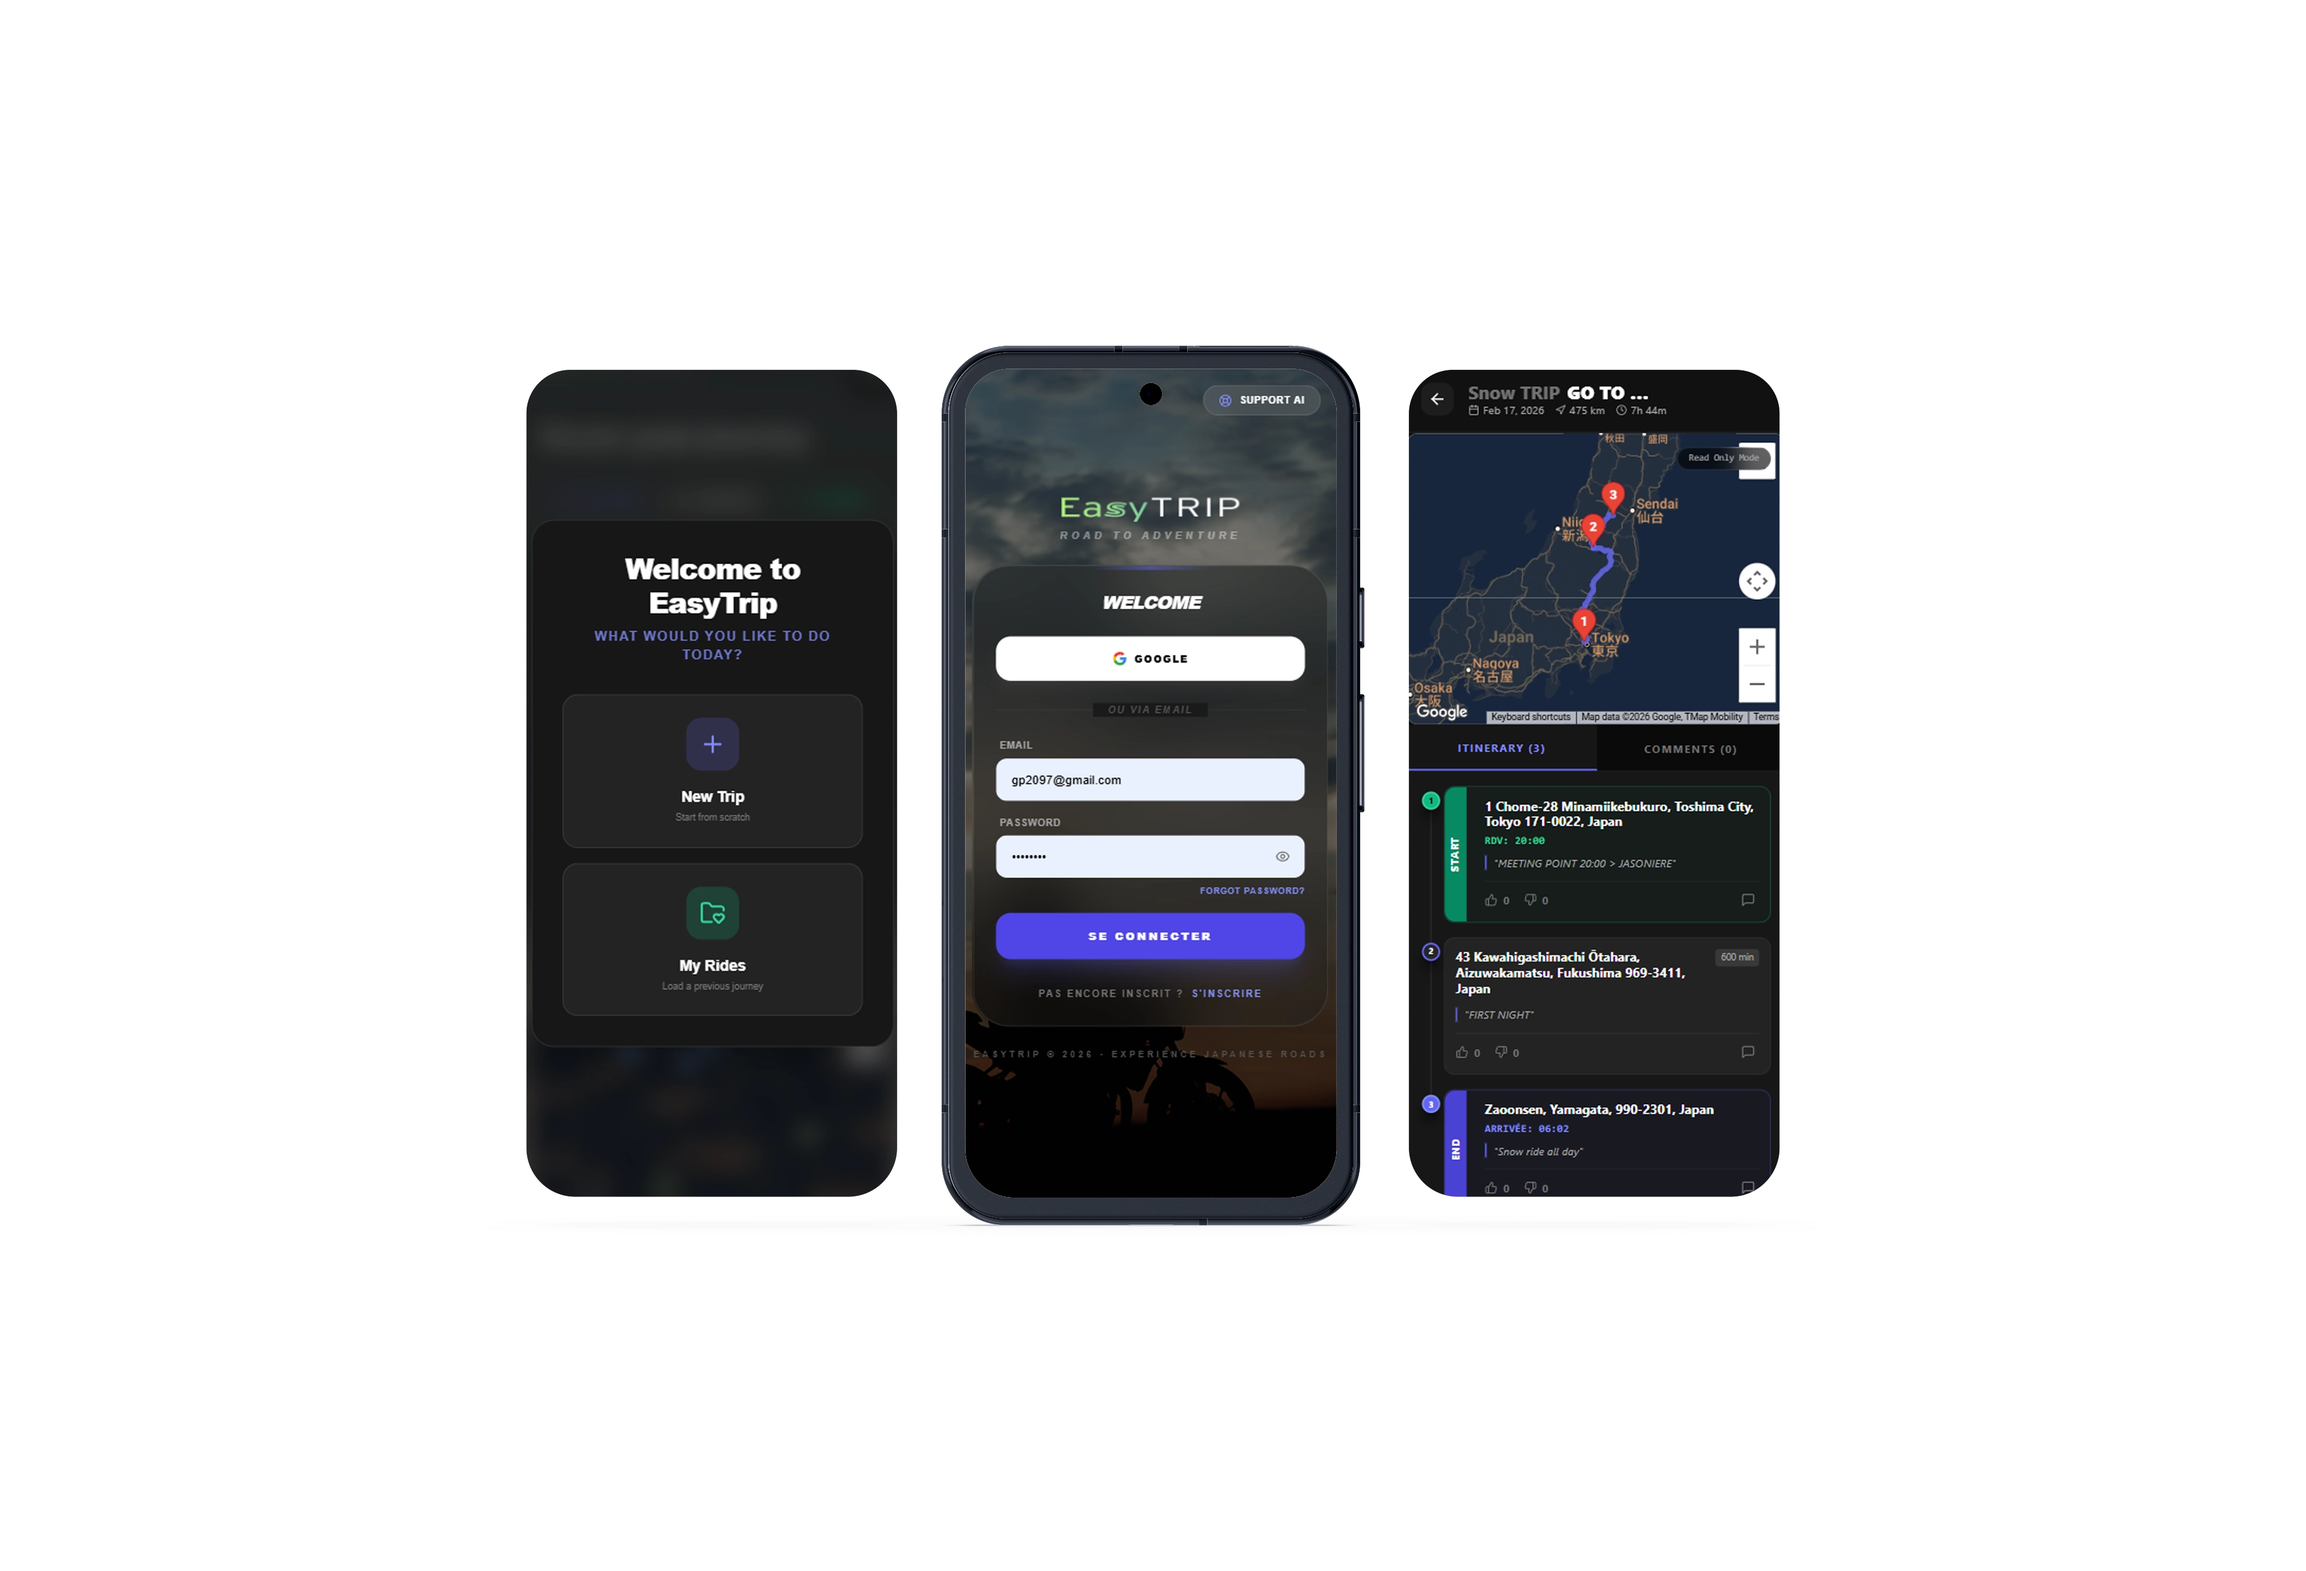
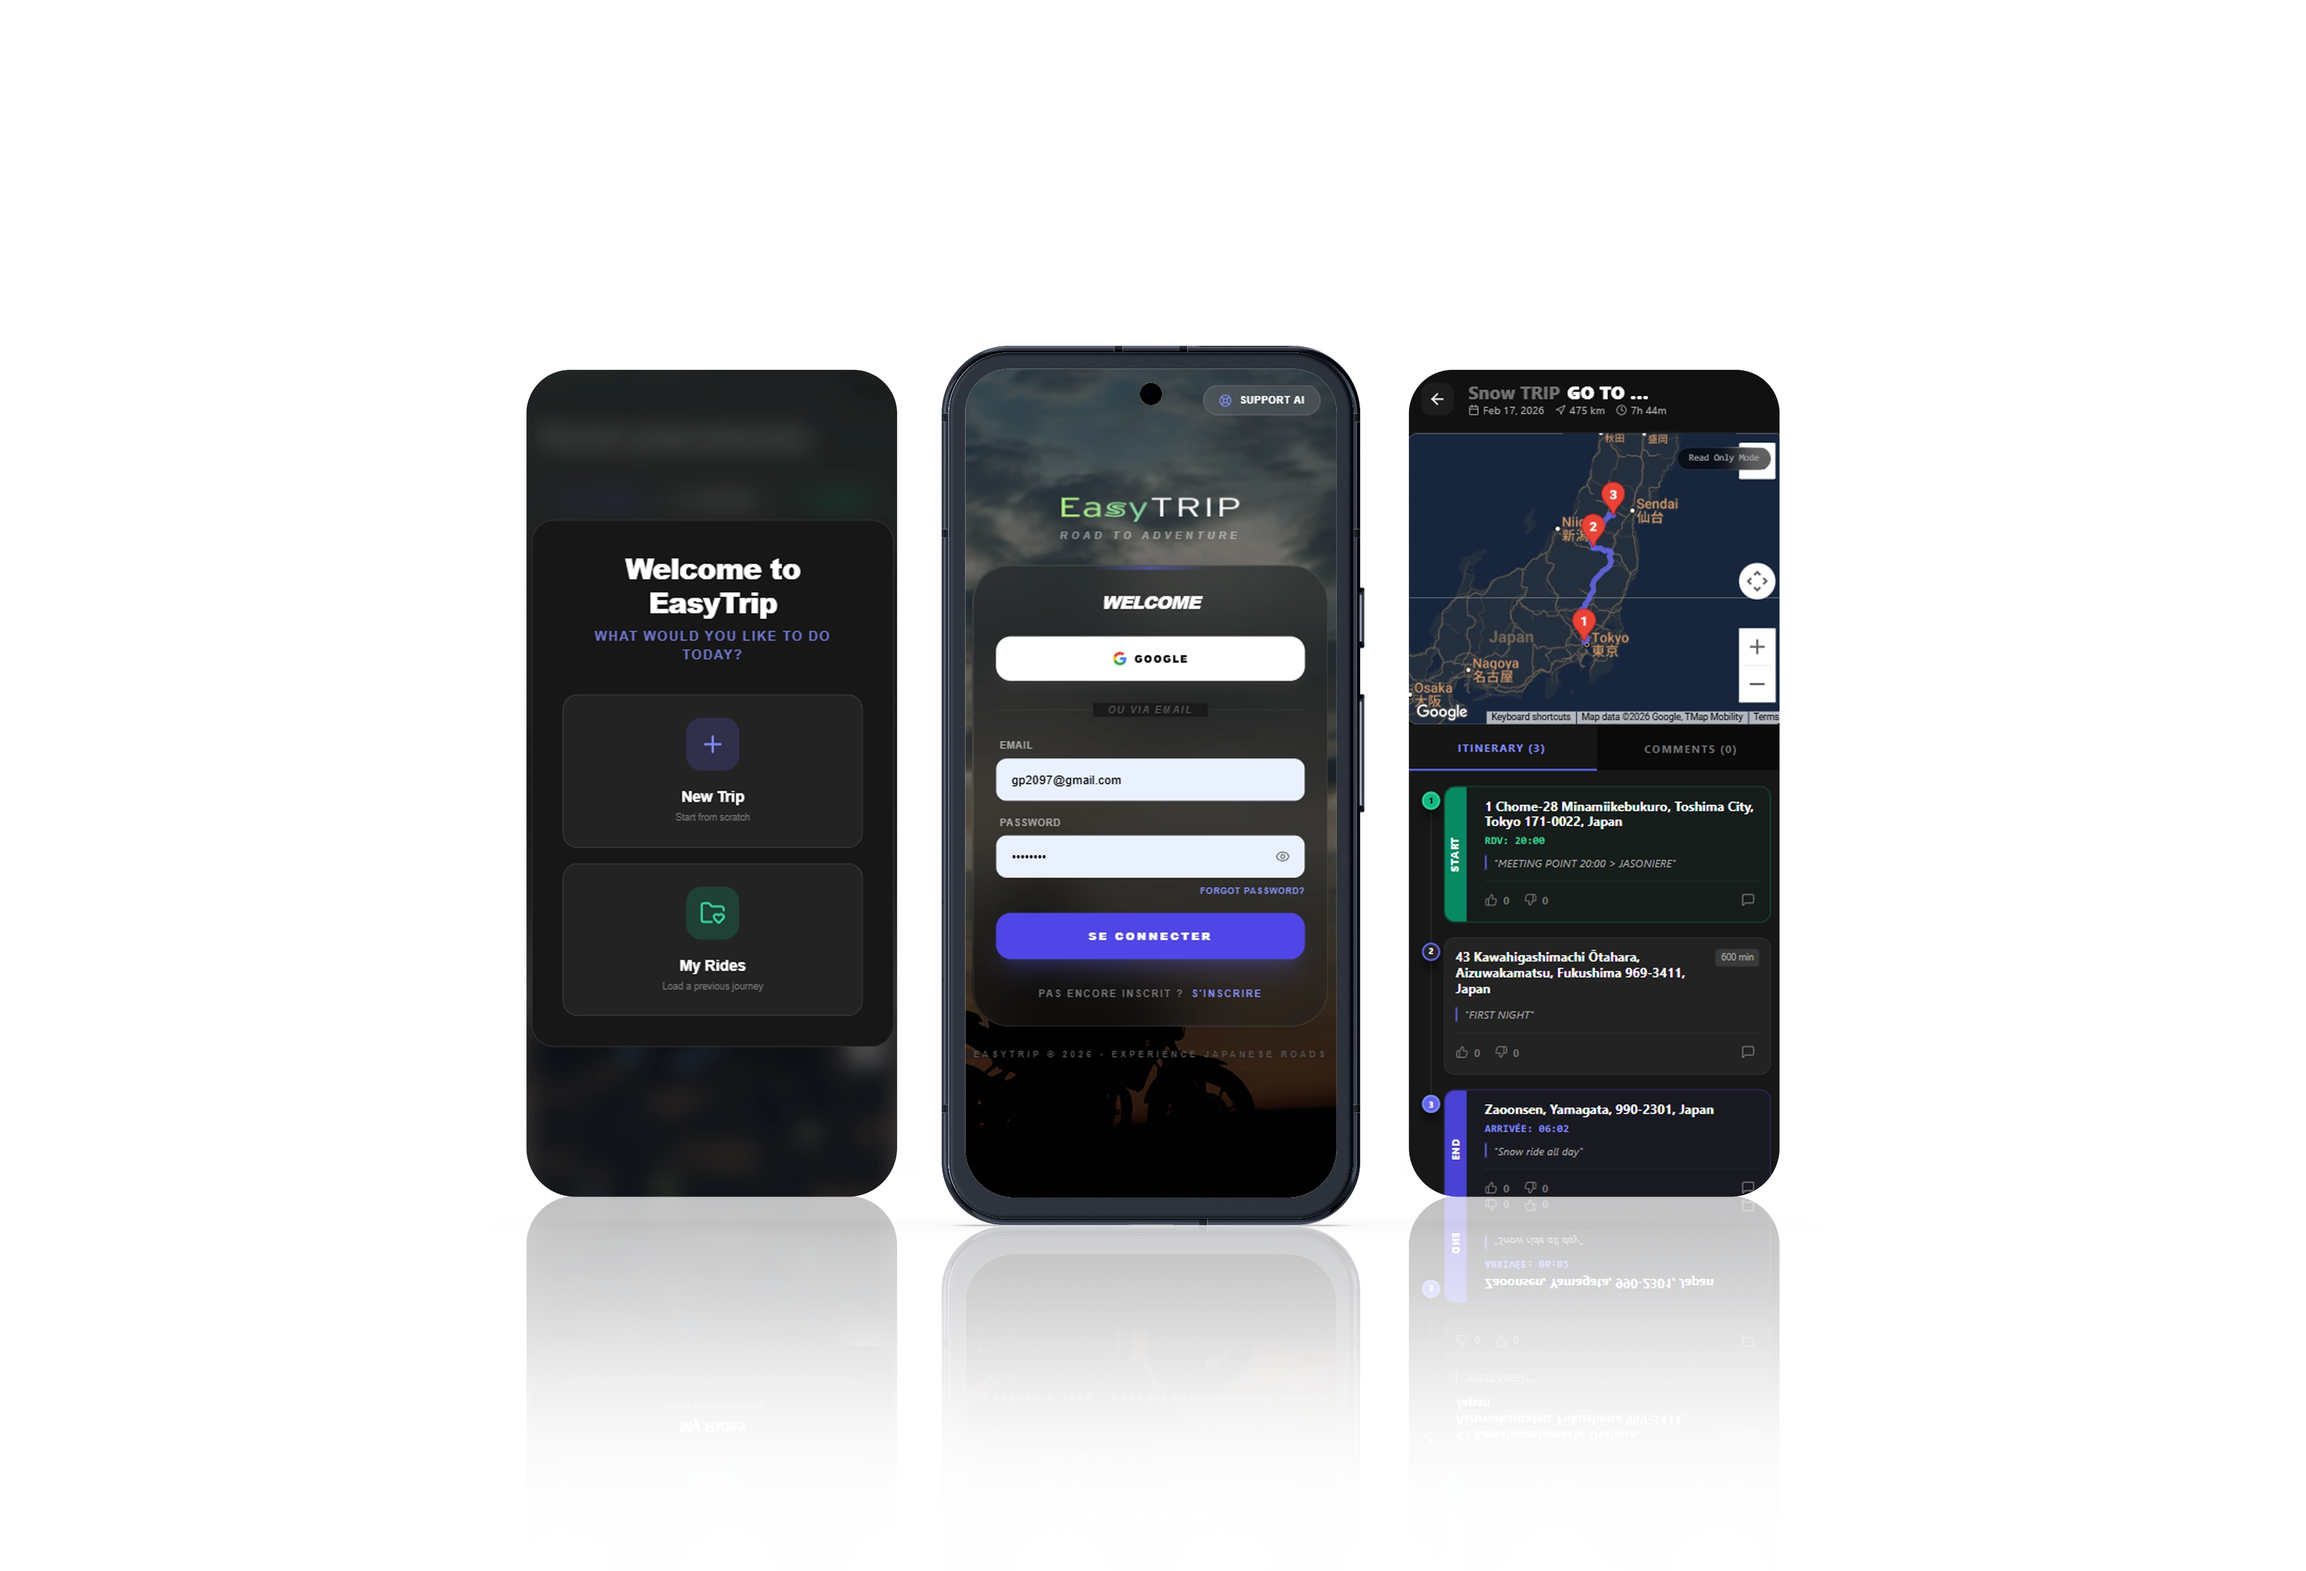
iineGames_v0.04

Changed region(s): [[0.2188, 0.7428, 0.7812, 0.8666]]

diff --git a/style.css b/style.css
@@ -334,8 +334,8 @@ nav {
 .easytrip-bg {
     background-image: url('assets/easyTrip/Background/Main1.jpg');
     background-size: cover;
-    background-position: center calc(50% - 19px);
-    /* Shifted up 23px */
+    background-position: center calc(50% + 1px);
+    /* Shifted down 15px from previous */
     position: relative;
 }
 
@@ -356,12 +356,28 @@ nav {
     z-index: 1;
 }
 
+/* Portfolio Container — eliminate gaps between sections */
+#portfolio {
+    font-size: 0;
+    /* Collapse whitespace between sections */
+    line-height: 0;
+}
+
+#portfolio>section {
+    font-size: 14px;
+    /* Restore font-size inside sections */
+    line-height: 1.6;
+}
+
 /* Section Common */
 .game-section {
-    height: 800px;
+    height: 600px;
     /* Fixed section height */
     padding: 0;
+    margin: 0;
     overflow: hidden;
+    border: none;
+    display: block;
 }
 
 .game-info {
@@ -370,17 +386,17 @@ nav {
 
 .game-section .container {
     height: 100%;
-    padding: 0 80px 0 85px;
-    /* Shift content 5px right */
+    padding: 0 80px;
     max-width: 1400px;
+    margin: 0 auto;
+    display: flex;
+    align-items: center;
 }
 
 .game-section .grid-2 {
-    height: 100%;
+    width: 100%;
     gap: 30px;
     align-items: center;
-    padding-top: 20px;
-    padding-bottom: 20px;
 }
 
 .title-xl {
@@ -471,10 +487,8 @@ nav {
     width: 100%;
     height: auto;
     max-height: none;
-    /* Suppression de la limite de hauteur */
     filter: drop-shadow(0 30px 60px rgba(0, 0, 0, 0.7));
-    transform: scale(1.1);
-    /* Petit boost supplémentaire pour l'effet "WOW" */
+    transform: scale(2.09);
 }
 
 /* Pixel Mockup */
